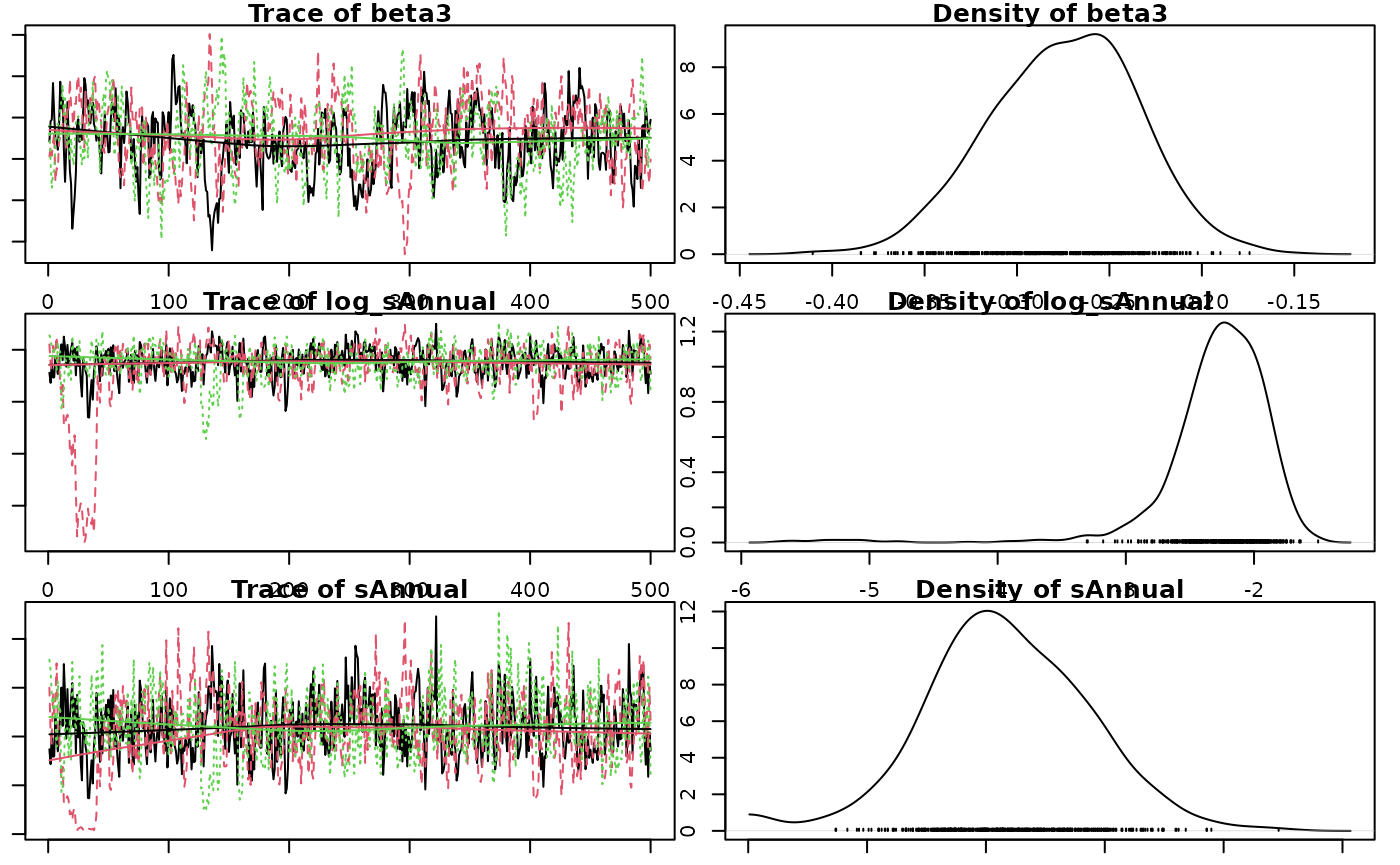
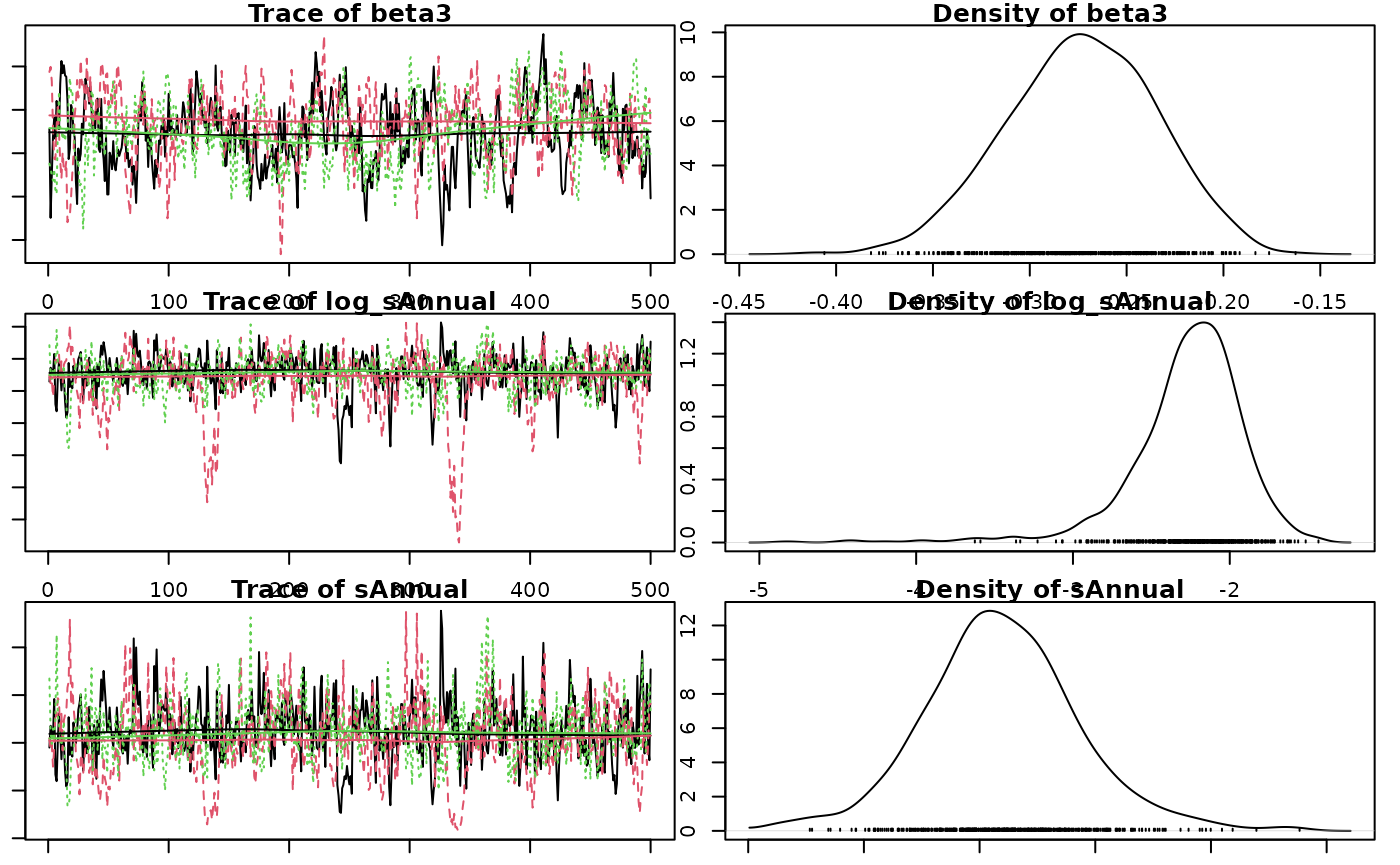
Deploying to gh-pages from @ poissonconsulting/jmbr@0b7cb8a0e304d47540a80565f2012ec0787e9225 🚀

diff --git a/index.html b/index.html
@@ -59,17 +59,17 @@
 <h2 id="introduction">Introduction<a class="anchor" aria-label="anchor" href="#introduction"></a>
 </h2>
 <p><code>jmbr</code> (pronounced jimber) is an R package to facilitate analyses using Just Another Gibbs Sampler (<a href="http://mcmc-jags.sourceforge.net" class="external-link"><code>JAGS</code></a>).</p>
-<p>It is part of the <a href="https://github.com/poissonconsulting/mbr" class="external-link">mbr</a> family of packages.</p>
+<p>It is part of the <a href="https://github.com/poissonconsulting/embr" class="external-link">embr</a> family of packages.</p>
 </div>
 <div class="section level2">
 <h2 id="demonstration">Demonstration<a class="anchor" aria-label="anchor" href="#demonstration"></a>
 </h2>
 <div class="sourceCode" id="cb1"><pre class="downlit sourceCode r">
 <code class="sourceCode R"><span><span class="kw"><a href="https://rdrr.io/r/base/library.html" class="external-link">library</a></span><span class="op">(</span><span class="va"><a href="https://github.com/poissonconsulting/jmbr" class="external-link">jmbr</a></span><span class="op">)</span></span>
-<span><span class="kw"><a href="https://rdrr.io/r/base/library.html" class="external-link">library</a></span><span class="op">(</span><span class="va"><a href="https://github.com/ntthung/mbr" class="external-link">mbr</a></span><span class="op">)</span></span></code></pre></div>
+<span><span class="kw"><a href="https://rdrr.io/r/base/library.html" class="external-link">library</a></span><span class="op">(</span><span class="va"><a href="https://github.com/poissonconsulting/embr" class="external-link">embr</a></span><span class="op">)</span></span></code></pre></div>
 <div class="sourceCode" id="cb2"><pre class="downlit sourceCode r">
 <code class="sourceCode R"><span><span class="co"># define model in JAGS language</span></span>
-<span><span class="va">model</span> <span class="op">&lt;-</span> <span class="fu">model</span><span class="op">(</span>code <span class="op">=</span> <span class="st">"model {</span></span>
+<span><span class="va">model</span> <span class="op">&lt;-</span> <span class="fu"><a href="https://rdrr.io/pkg/embr/man/model.html" class="external-link">model</a></span><span class="op">(</span>code <span class="op">=</span> <span class="st">"model {</span></span>
 <span><span class="st">  alpha ~ dnorm(0, 10^-2)</span></span>
 <span><span class="st">  beta1 ~ dnorm(0, 10^-2)</span></span>
 <span><span class="st">  beta2 ~ dnorm(0, 10^-2)</span></span>
@@ -89,46 +89,47 @@
 <span><span class="st">}"</span><span class="op">)</span></span>
 <span></span>
 <span><span class="co"># add R code to calculate derived parameters</span></span>
-<span><span class="va">model</span> <span class="op">&lt;-</span> <span class="fu">update_model</span><span class="op">(</span><span class="va">model</span>, new_expr <span class="op">=</span> <span class="st">"</span></span>
+<span><span class="va">model</span> <span class="op">&lt;-</span> <span class="fu"><a href="https://rdrr.io/pkg/embr/man/update_model.html" class="external-link">update_model</a></span><span class="op">(</span><span class="va">model</span>, new_expr <span class="op">=</span> <span class="st">"</span></span>
 <span><span class="st">for (i in 1:length(Pairs)) {</span></span>
 <span><span class="st">  log(prediction[i]) &lt;- alpha + beta1 * Year[i] + beta2 * Year[i]^2 + beta3 * Year[i]^3 + bAnnual[Annual[i]]</span></span>
 <span><span class="st">}"</span><span class="op">)</span></span>
 <span></span>
 <span><span class="co"># define data types and center year</span></span>
-<span><span class="va">model</span> <span class="op">&lt;-</span> <span class="fu">update_model</span><span class="op">(</span><span class="va">model</span>, </span>
+<span><span class="va">model</span> <span class="op">&lt;-</span> <span class="fu"><a href="https://rdrr.io/pkg/embr/man/update_model.html" class="external-link">update_model</a></span><span class="op">(</span><span class="va">model</span>,</span>
 <span>  select_data <span class="op">=</span> <span class="fu"><a href="https://rdrr.io/r/base/list.html" class="external-link">list</a></span><span class="op">(</span><span class="st">"Pairs"</span> <span class="op">=</span> <span class="fu"><a href="https://rdrr.io/r/base/integer.html" class="external-link">integer</a></span><span class="op">(</span><span class="op">)</span>, <span class="st">"Year*"</span> <span class="op">=</span> <span class="fu"><a href="https://rdrr.io/r/base/integer.html" class="external-link">integer</a></span><span class="op">(</span><span class="op">)</span>, Annual <span class="op">=</span> <span class="fu"><a href="https://rdrr.io/r/base/factor.html" class="external-link">factor</a></span><span class="op">(</span><span class="op">)</span><span class="op">)</span>,</span>
 <span>  derived <span class="op">=</span> <span class="st">"sAnnual"</span>,</span>
-<span>  random_effects <span class="op">=</span> <span class="fu"><a href="https://rdrr.io/r/base/list.html" class="external-link">list</a></span><span class="op">(</span>bAnnual <span class="op">=</span> <span class="st">"Annual"</span><span class="op">)</span><span class="op">)</span></span>
+<span>  random_effects <span class="op">=</span> <span class="fu"><a href="https://rdrr.io/r/base/list.html" class="external-link">list</a></span><span class="op">(</span>bAnnual <span class="op">=</span> <span class="st">"Annual"</span><span class="op">)</span></span>
+<span><span class="op">)</span></span>
 <span></span>
 <span><span class="va">data</span> <span class="op">&lt;-</span> <span class="fu">bauw</span><span class="fu">::</span><span class="va"><a href="https://poissonconsulting.github.io/bauw/reference/peregrine.html" class="external-link">peregrine</a></span></span>
 <span><span class="va">data</span><span class="op">$</span><span class="va">Annual</span> <span class="op">&lt;-</span> <span class="fu"><a href="https://rdrr.io/r/base/factor.html" class="external-link">factor</a></span><span class="op">(</span><span class="va">data</span><span class="op">$</span><span class="va">Year</span><span class="op">)</span></span>
 <span></span>
-<span><span class="fu">set_analysis_mode</span><span class="op">(</span><span class="st">"report"</span><span class="op">)</span></span>
+<span><span class="fu"><a href="https://rdrr.io/pkg/embr/man/set_analysis_mode.html" class="external-link">set_analysis_mode</a></span><span class="op">(</span><span class="st">"report"</span><span class="op">)</span></span>
 <span></span>
 <span><span class="co"># analyse</span></span>
-<span><span class="va">analysis</span> <span class="op">&lt;-</span> <span class="fu">analyse</span><span class="op">(</span><span class="va">model</span>, data <span class="op">=</span> <span class="va">data</span><span class="op">)</span></span>
+<span><span class="va">analysis</span> <span class="op">&lt;-</span> <span class="fu"><a href="https://rdrr.io/pkg/embr/man/analyse.html" class="external-link">analyse</a></span><span class="op">(</span><span class="va">model</span>, data <span class="op">=</span> <span class="va">data</span><span class="op">)</span></span>
 <span><span class="co">#&gt; Registered S3 method overwritten by 'rjags':</span></span>
 <span><span class="co">#&gt;   method               from </span></span>
 <span><span class="co">#&gt;   as.mcmc.list.mcarray mcmcr</span></span>
 <span><span class="co">#&gt; # A tibble: 1 × 8</span></span>
 <span><span class="co">#&gt;       n     K nchains niters nthin   ess  rhat converged</span></span>
 <span><span class="co">#&gt;   &lt;int&gt; &lt;int&gt;   &lt;int&gt;  &lt;int&gt; &lt;int&gt; &lt;int&gt; &lt;dbl&gt; &lt;lgl&gt;    </span></span>
-<span><span class="co">#&gt; 1    40     5       3    500     1     9  5.11 FALSE</span></span>
-<span><span class="va">analysis</span> <span class="op">&lt;-</span> <span class="fu">reanalyse</span><span class="op">(</span><span class="va">analysis</span><span class="op">)</span></span>
+<span><span class="co">#&gt; 1    40     5       3    500     1    10  7.16 FALSE</span></span>
+<span><span class="va">analysis</span> <span class="op">&lt;-</span> <span class="fu"><a href="https://rdrr.io/pkg/embr/man/reanalyse.html" class="external-link">reanalyse</a></span><span class="op">(</span><span class="va">analysis</span><span class="op">)</span></span>
 <span><span class="co">#&gt; # A tibble: 1 × 8</span></span>
 <span><span class="co">#&gt;       n     K nchains niters nthin   ess  rhat converged</span></span>
 <span><span class="co">#&gt;   &lt;int&gt; &lt;int&gt;   &lt;int&gt;  &lt;int&gt; &lt;int&gt; &lt;int&gt; &lt;dbl&gt; &lt;lgl&gt;    </span></span>
-<span><span class="co">#&gt; 1    40     5       3    500     2    44  3.47 FALSE</span></span>
+<span><span class="co">#&gt; 1    40     5       3    500     2    33   1.4 FALSE</span></span>
 <span></span>
-<span><span class="fu"><a href="https://rdrr.io/r/stats/coef.html" class="external-link">coef</a></span><span class="op">(</span><span class="va">analysis</span>, simplify <span class="op">=</span> <span class="cn">TRUE</span><span class="op">)</span></span>
+<span><span class="fu"><a href="https://rdrr.io/r/stats/coef.html" class="external-link">coef</a></span><span class="op">(</span><span class="va">analysis</span>, directional_information <span class="op">=</span> <span class="cn">FALSE</span><span class="op">)</span></span>
 <span><span class="co">#&gt; # A tibble: 5 × 5</span></span>
-<span><span class="co">#&gt;   term        estimate  lower upper svalue</span></span>
-<span><span class="co">#&gt;   &lt;term&gt;         &lt;dbl&gt;  &lt;dbl&gt; &lt;dbl&gt;  &lt;dbl&gt;</span></span>
-<span><span class="co">#&gt; 1 alpha         4.25    3.05  4.35  10.6  </span></span>
-<span><span class="co">#&gt; 2 beta1         1.16   -1.13  1.33   1.55 </span></span>
-<span><span class="co">#&gt; 3 beta2        -0.0160 -0.205 0.419  0.520</span></span>
-<span><span class="co">#&gt; 4 beta3        -0.254  -0.338 0.768  1.35 </span></span>
-<span><span class="co">#&gt; 5 log_sAnnual  -2.10   -2.82  0.366  1.78</span></span>
+<span><span class="co">#&gt;   term        estimate   lower  upper svalue</span></span>
+<span><span class="co">#&gt;   &lt;term&gt;         &lt;dbl&gt;   &lt;dbl&gt;  &lt;dbl&gt;  &lt;dbl&gt;</span></span>
+<span><span class="co">#&gt; 1 alpha         4.25    4.01    4.34  10.6  </span></span>
+<span><span class="co">#&gt; 2 beta1         1.18   -0.117   1.36   3.74 </span></span>
+<span><span class="co">#&gt; 3 beta2        -0.0159 -0.0916  0.131  0.614</span></span>
+<span><span class="co">#&gt; 4 beta3        -0.266  -0.355   0.265  2.13 </span></span>
+<span><span class="co">#&gt; 5 log_sAnnual  -2.13   -2.79   -0.506 10.6</span></span>
 <span></span>
 <span><span class="fu"><a href="https://rdrr.io/r/graphics/plot.default.html" class="external-link">plot</a></span><span class="op">(</span><span class="va">analysis</span><span class="op">)</span></span></code></pre></div>
 <p><img src="tools/README-unnamed-chunk-3-1.png"><!-- --><img src="tools/README-unnamed-chunk-3-2.png"><!-- --></p>
@@ -242,7 +243,7 @@
 <li><a href="https://lifecycle.r-lib.org/articles/stages.html#experimental" class="external-link"><img src="https://img.shields.io/badge/lifecycle-experimental-orange.svg" alt="Lifecycle: experimental"></a></li>
 <li><a href="https://github.com/poissonconsulting/jmbr/actions/workflows/R-CMD-check.yaml" class="external-link"><img src="https://github.com/poissonconsulting/jmbr/actions/workflows/R-CMD-check.yaml/badge.svg" alt="R-CMD-check"></a></li>
 <li><a href="https://codecov.io/gh/poissonconsulting/jmbr?branch=master" class="external-link"><img src="https://codecov.io/gh/poissonconsulting/jmbr/branch/master/graph/badge.svg" alt="Codecov test coverage"></a></li>
-<li><a href="https://opensource.org/licenses/MIT" class="external-link"><img src="https://img.shields.io/badge/License-MIT-blue.svg" alt="License: MIT"></a></li>
+<li><a href="https://opensource.org/license/mit/" class="external-link"><img src="https://img.shields.io/badge/License-MIT-blue.svg" alt="License: MIT"></a></li>
 </ul>
 </div>
 

diff --git a/articles/jmbr.html b/articles/jmbr.html
@@ -278,14 +278,14 @@ value and discarding all other values.</p>
 <span><span class="co">#&gt; <span style="color: #949494;"># A tibble: 1 × 8</span></span></span>
 <span><span class="co">#&gt;       n     K nchains niters nthin   ess  rhat converged</span></span>
 <span><span class="co">#&gt;   <span style="color: #949494; font-style: italic;">&lt;int&gt;</span> <span style="color: #949494; font-style: italic;">&lt;int&gt;</span>   <span style="color: #949494; font-style: italic;">&lt;int&gt;</span>  <span style="color: #949494; font-style: italic;">&lt;int&gt;</span> <span style="color: #949494; font-style: italic;">&lt;int&gt;</span> <span style="color: #949494; font-style: italic;">&lt;int&gt;</span> <span style="color: #949494; font-style: italic;">&lt;dbl&gt;</span> <span style="color: #949494; font-style: italic;">&lt;lgl&gt;</span>    </span></span>
-<span><span class="co">#&gt; <span style="color: #BCBCBC;">1</span>    40     6       3    500    10   168  1.03 TRUE</span></span>
+<span><span class="co">#&gt; <span style="color: #BCBCBC;">1</span>    40     6       3    500    10   224  1.02 TRUE</span></span>
 <span><span class="co">#&gt; Warning in value[[3L]](cond): beep() could not play the sound due to the following error:</span></span>
 <span><span class="co">#&gt; Error in play.default(x, rate, ...): no audio drivers are available</span></span>
 <span><span class="va">analysis</span> <span class="op">&lt;-</span> <span class="fu"><a href="https://rdrr.io/pkg/embr/man/reanalyse.html" class="external-link">reanalyse</a></span><span class="op">(</span><span class="va">analysis</span><span class="op">)</span></span>
 <span><span class="co">#&gt; <span style="color: #949494;"># A tibble: 1 × 8</span></span></span>
 <span><span class="co">#&gt;       n     K nchains niters nthin   ess  rhat converged</span></span>
 <span><span class="co">#&gt;   <span style="color: #949494; font-style: italic;">&lt;int&gt;</span> <span style="color: #949494; font-style: italic;">&lt;int&gt;</span>   <span style="color: #949494; font-style: italic;">&lt;int&gt;</span>  <span style="color: #949494; font-style: italic;">&lt;int&gt;</span> <span style="color: #949494; font-style: italic;">&lt;int&gt;</span> <span style="color: #949494; font-style: italic;">&lt;int&gt;</span> <span style="color: #949494; font-style: italic;">&lt;dbl&gt;</span> <span style="color: #949494; font-style: italic;">&lt;lgl&gt;</span>    </span></span>
-<span><span class="co">#&gt; <span style="color: #BCBCBC;">1</span>    40     6       3    500    10   168  1.03 TRUE</span></span>
+<span><span class="co">#&gt; <span style="color: #BCBCBC;">1</span>    40     6       3    500    10   224  1.02 TRUE</span></span>
 <span><span class="co">#&gt; Warning in value[[3L]](cond): beep() could not play the sound due to the following error:</span></span>
 <span><span class="co">#&gt; Error in play.default(x, rate, ...): no audio drivers are available</span></span></code></pre></div>
 <p><strong>Analysis Table:</strong></p>
@@ -329,12 +329,12 @@ between- and within-chain estimates for model parameters.
 <span><span class="co">#&gt; <span style="color: #949494;"># A tibble: 6 × 5</span></span></span>
 <span><span class="co">#&gt;   term        estimate   lower   upper svalue</span></span>
 <span><span class="co">#&gt;   <span style="color: #949494; font-style: italic;">&lt;term&gt;</span>         <span style="color: #949494; font-style: italic;">&lt;dbl&gt;</span>   <span style="color: #949494; font-style: italic;">&lt;dbl&gt;</span>   <span style="color: #949494; font-style: italic;">&lt;dbl&gt;</span>  <span style="color: #949494; font-style: italic;">&lt;dbl&gt;</span></span></span>
-<span><span class="co">#&gt; <span style="color: #BCBCBC;">1</span> alpha         4.26    4.18    4.33   10.6  </span></span>
-<span><span class="co">#&gt; <span style="color: #BCBCBC;">2</span> beta1         1.19    1.05    1.35   10.6  </span></span>
-<span><span class="co">#&gt; <span style="color: #BCBCBC;">3</span> beta2        -<span style="color: #BB0000;">0.017</span><span style="color: #BB0000; text-decoration: underline;">8</span> -<span style="color: #BB0000;">0.079</span><span style="color: #BB0000; text-decoration: underline;">2</span>  0.039<span style="text-decoration: underline;">1</span>  0.864</span></span>
-<span><span class="co">#&gt; <span style="color: #BCBCBC;">4</span> beta3        -<span style="color: #BB0000;">0.273</span>  -<span style="color: #BB0000;">0.354</span>  -<span style="color: #BB0000;">0.200</span>  10.6  </span></span>
-<span><span class="co">#&gt; <span style="color: #BCBCBC;">5</span> log_sAnnual  -<span style="color: #BB0000;">2.23</span>   -<span style="color: #BB0000;">3.26</span>   -<span style="color: #BB0000;">1.74</span>   10.6  </span></span>
-<span><span class="co">#&gt; <span style="color: #BCBCBC;">6</span> sAnnual       0.107   0.038<span style="text-decoration: underline;">3</span>  0.176  10.6</span></span></code></pre></div>
+<span><span class="co">#&gt; <span style="color: #BCBCBC;">1</span> alpha         4.26    4.18    4.34   10.6  </span></span>
+<span><span class="co">#&gt; <span style="color: #BCBCBC;">2</span> beta1         1.19    1.06    1.35   10.6  </span></span>
+<span><span class="co">#&gt; <span style="color: #BCBCBC;">3</span> beta2        -<span style="color: #BB0000;">0.020</span><span style="color: #BB0000; text-decoration: underline;">8</span> -<span style="color: #BB0000;">0.080</span><span style="color: #BB0000; text-decoration: underline;">7</span>  0.042<span style="text-decoration: underline;">8</span>  0.977</span></span>
+<span><span class="co">#&gt; <span style="color: #BCBCBC;">4</span> beta3        -<span style="color: #BB0000;">0.272</span>  -<span style="color: #BB0000;">0.350</span>  -<span style="color: #BB0000;">0.201</span>  10.6  </span></span>
+<span><span class="co">#&gt; <span style="color: #BCBCBC;">5</span> log_sAnnual  -<span style="color: #BB0000;">2.22</span>   -<span style="color: #BB0000;">3.18</span>   -<span style="color: #BB0000;">1.71</span>   10.6  </span></span>
+<span><span class="co">#&gt; <span style="color: #BCBCBC;">6</span> sAnnual       0.109   0.041<span style="text-decoration: underline;">7</span>  0.182  10.6</span></span></code></pre></div>
 <p>The estimate is the <strong>median</strong> by default.</p>
 <p>The s-value is the <strong>suprisal</strong> value, which is a
 measure of directionality with respect to zero.</p>

diff --git a/index.md b/index.md
@@ -5,15 +5,15 @@
 `jmbr` (pronounced jimber) is an R package to facilitate analyses using
 Just Another Gibbs Sampler ([`JAGS`](http://mcmc-jags.sourceforge.net)).
 
-It is part of the [mbr](https://github.com/poissonconsulting/mbr) family
-of packages.
+It is part of the [embr](https://github.com/poissonconsulting/embr)
+family of packages.
 
 ## Demonstration
 
 ``` r
 
 library(jmbr)
-library(mbr)
+library(embr)
 ```
 
 ``` r
@@ -45,10 +45,11 @@ for (i in 1:length(Pairs)) {
 }")
 
 # define data types and center year
-model <- update_model(model, 
+model <- update_model(model,
   select_data = list("Pairs" = integer(), "Year*" = integer(), Annual = factor()),
   derived = "sAnnual",
-  random_effects = list(bAnnual = "Annual"))
+  random_effects = list(bAnnual = "Annual")
+)
 
 data <- bauw::peregrine
 data$Annual <- factor(data$Year)
@@ -63,22 +64,22 @@ analysis <- analyse(model, data = data)
 #> # A tibble: 1 × 8
 #>       n     K nchains niters nthin   ess  rhat converged
 #>   <int> <int>   <int>  <int> <int> <int> <dbl> <lgl>    
-#> 1    40     5       3    500     1     9  5.11 FALSE
+#> 1    40     5       3    500     1    10  7.16 FALSE
 analysis <- reanalyse(analysis)
 #> # A tibble: 1 × 8
 #>       n     K nchains niters nthin   ess  rhat converged
 #>   <int> <int>   <int>  <int> <int> <int> <dbl> <lgl>    
-#> 1    40     5       3    500     2    44  3.47 FALSE
+#> 1    40     5       3    500     2    33   1.4 FALSE
 
-coef(analysis, simplify = TRUE)
+coef(analysis, directional_information = FALSE)
 #> # A tibble: 5 × 5
-#>   term        estimate  lower upper svalue
-#>   <term>         <dbl>  <dbl> <dbl>  <dbl>
-#> 1 alpha         4.25    3.05  4.35  10.6  
-#> 2 beta1         1.16   -1.13  1.33   1.55 
-#> 3 beta2        -0.0160 -0.205 0.419  0.520
-#> 4 beta3        -0.254  -0.338 0.768  1.35 
-#> 5 log_sAnnual  -2.10   -2.82  0.366  1.78
+#>   term        estimate   lower  upper svalue
+#>   <term>         <dbl>   <dbl>  <dbl>  <dbl>
+#> 1 alpha         4.25    4.01    4.34  10.6  
+#> 2 beta1         1.18   -0.117   1.36   3.74 
+#> 3 beta2        -0.0159 -0.0916  0.131  0.614
+#> 4 beta3        -0.266  -0.355   0.265  2.13 
+#> 5 log_sAnnual  -2.13   -2.79   -0.506 10.6
 
 plot(analysis)
 ```

diff --git a/articles/jmbr.md b/articles/jmbr.md
@@ -214,14 +214,14 @@ analysis <- analyse(model, data = data)
 #> # A tibble: 1 × 8
 #>       n     K nchains niters nthin   ess  rhat converged
 #>   <int> <int>   <int>  <int> <int> <int> <dbl> <lgl>    
-#> 1    40     6       3    500    10   168  1.03 TRUE
+#> 1    40     6       3    500    10   224  1.02 TRUE
 #> Warning in value[[3L]](cond): beep() could not play the sound due to the following error:
 #> Error in play.default(x, rate, ...): no audio drivers are available
 analysis <- reanalyse(analysis)
 #> # A tibble: 1 × 8
 #>       n     K nchains niters nthin   ess  rhat converged
 #>   <int> <int>   <int>  <int> <int> <int> <dbl> <lgl>    
-#> 1    40     6       3    500    10   168  1.03 TRUE
+#> 1    40     6       3    500    10   224  1.02 TRUE
 #> Warning in value[[3L]](cond): beep() could not play the sound due to the following error:
 #> Error in play.default(x, rate, ...): no audio drivers are available
 ```
@@ -261,12 +261,12 @@ coef(analysis, directional_information = FALSE)
 #> # A tibble: 6 × 5
 #>   term        estimate   lower   upper svalue
 #>   <term>         <dbl>   <dbl>   <dbl>  <dbl>
-#> 1 alpha         4.26    4.18    4.33   10.6  
-#> 2 beta1         1.19    1.05    1.35   10.6  
-#> 3 beta2        -0.0178 -0.0792  0.0391  0.864
-#> 4 beta3        -0.273  -0.354  -0.200  10.6  
-#> 5 log_sAnnual  -2.23   -3.26   -1.74   10.6  
-#> 6 sAnnual       0.107   0.0383  0.176  10.6
+#> 1 alpha         4.26    4.18    4.34   10.6  
+#> 2 beta1         1.19    1.06    1.35   10.6  
+#> 3 beta2        -0.0208 -0.0807  0.0428  0.977
+#> 4 beta3        -0.272  -0.350  -0.201  10.6  
+#> 5 log_sAnnual  -2.22   -3.18   -1.71   10.6  
+#> 6 sAnnual       0.109   0.0417  0.182  10.6
 ```
 
 The estimate is the **median** by default.
